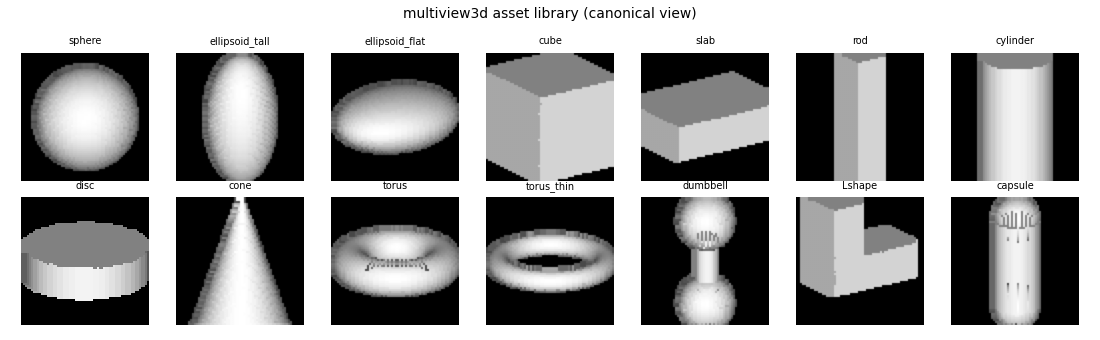
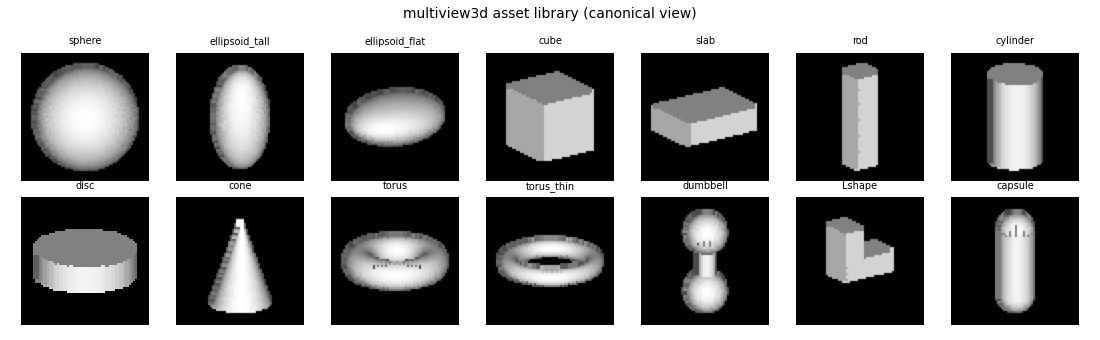
verify + fix 3D multiview: bounding-sphere normalisation (no clipping), correctness checks
run_verify_multiview.py: azimuth sweeps of asymmetric objects + numerical checks.
Confirmed correct: slab/disc silhouette HEIGHT is azimuth-invariant (rotation about y);
cube W/H 1.00 head-on <-> 1.33 oblique (3 faces); L-shape chiral (corr(0,180)=0.50);
stored poses == rotation(az,el); projected 3D points land in silhouette (containment 1.0).

Fix found in inspection: several objects clipped the frame. _normalize now scales each
object to bounding-sphere radius 1 (per-axis was insufficient: rotated diagonals project
beyond). Regenerated; max silhouette extent 54<64, clipping gone.

diff --git a/experiments/run_verify_multiview.py b/experiments/run_verify_multiview.py
@@ -1,0 +1,109 @@
+"""Verify the 3D multi-view renders are geometrically correct.
+
+Two checks:
+  (1) VISUAL: azimuth sweep (el=0) of ASYMMETRIC objects. A correct camera orbit
+      must rotate them predictably (slab gets wider/narrower; the L-shape spins;
+      the cube shows 1 face head-on, 2-3 faces obliquely). A wrong az/el/flip
+      convention shows up instantly here. -> docs/multiview3d_verify.png
+
+  (2) NUMERICAL: (a) cube head-on (0,0) is a square; (b) the stored poses in the
+      .npz equal rotation(az,el); (c) projecting the 3D points with the stored
+      pose lands inside the rendered silhouette (poses <-> images are consistent,
+      which downstream factorization relies on); (d) the orbit is smooth and has
+      the symmetry it should.
+
+Run:
+  ../market-analysis/.koopman-env/Scripts/python.exe experiments/run_verify_multiview.py
+"""
+from __future__ import annotations
+import sys
+from pathlib import Path
+
+ROOT = Path(__file__).resolve().parent.parent
+sys.path.insert(0, str(ROOT / "src"))
+
+import numpy as np
+import matplotlib
+matplotlib.use("Agg")
+import matplotlib.pyplot as plt
+
+from gestalt.render3d import library, render, rotation
+from gestalt.synth import load_dataset  # not used; kept import surface minimal
+
+AZ = [0, 45, 90, 135, 180, 225, 270, 315]
+MV = ROOT / "data" / "multiview3d"
+H, SCALE = 64, 0.40
+
+
+def silhouette(img):
+    return img > 0.01
+
+
+def project_visible(pts, nrm, R):
+    P = pts @ R.T
+    Ncz = (nrm @ R.T)[:, 2]
+    vis = Ncz > 0.02
+    u = np.clip(((P[vis, 0] * SCALE + 0.5) * H).astype(int), 0, H - 1)
+    v = np.clip(((0.5 - P[vis, 1] * SCALE) * H).astype(int), 0, H - 1)
+    return u, v
+
+
+def main():
+    lib = library()
+    diag = ["slab", "Lshape", "cube", "ellipsoid_tall", "cone", "disc"]
+
+    # (1) visual diagnostic sheet
+    fig, axes = plt.subplots(len(diag), len(AZ), figsize=(len(AZ) * 1.1, len(diag) * 1.1))
+    for r, name in enumerate(diag):
+        pts, nrm = lib[name]
+        for c, az in enumerate(AZ):
+            axes[r, c].imshow(render(pts, nrm, rotation(az, 0)), cmap="gray", vmin=0, vmax=1)
+            axes[r, c].axis("off")
+            if r == 0:
+                axes[r, c].set_title(f"az {az}", fontsize=8)
+        axes[r, 0].set_ylabel(name, fontsize=8)
+    fig.suptitle("azimuth sweep (el=0) of asymmetric objects -- must rotate predictably", fontsize=10)
+    fig.tight_layout()
+    out = ROOT / "docs" / "multiview3d_verify.png"
+    fig.savefig(out, dpi=100); plt.close(fig)
+    print(f"wrote {out.relative_to(ROOT)}\n")
+
+    # (2) numerical checks
+    print("--- numerical sanity ---")
+    # (a) cube head-on is a square (single face, aspect ~1)
+    pts, nrm = lib["cube"]
+    img = render(pts, nrm, rotation(0, 0))
+    ys, xs = np.nonzero(silhouette(img))
+    ar = (np.ptp(xs) + 1) / (np.ptp(ys) + 1)
+    print(f"cube @(0,0) aspect ratio = {ar:.3f}  (expect ~1.00 -> a square)")
+    img35 = render(pts, nrm, rotation(35, 20))
+    print(f"cube @(0,0) distinct shades = {np.unique(np.round(img[img>0.01],2)).size} "
+          f"(flat, 1 face);  @(35,20) = {np.unique(np.round(img35[img35>0.01],2)).size} (3 faces)")
+
+    # (b) stored npz poses equal rotation(az,el); (c) reprojection containment
+    print("\n--- stored-pose integrity + reprojection containment ---")
+    for d in sorted(MV.glob("obj_0*"))[:4]:
+        z = np.load(d / "views.npz")
+        name = str(z["name"]); pts, nrm = lib[name]
+        pose_ok = all(np.allclose(z["R"][k], rotation(z["az"][k], z["el"][k]))
+                      for k in range(len(z["az"])))
+        cont = []
+        for k in range(len(z["az"])):
+            u, v = project_visible(pts, nrm, z["R"][k])
+            inside = silhouette(z["imgs"][k])[v, u]
+            cont.append(inside.mean())
+        print(f"  {d.name:22s} poses==rotation(az,el): {pose_ok}   "
+              f"reproj-in-silhouette: {np.mean(cont):.3f}")
+
+    # (d) orbit symmetry/smoothness on a chiral object (Lshape)
+    pts, nrm = lib["Lshape"]
+    orbit = np.stack([render(pts, nrm, rotation(az, 0)) for az in range(0, 360, 15)])
+    nxt = np.array([np.corrcoef(orbit[i].ravel(), orbit[(i + 1) % len(orbit)].ravel())[0, 1]
+                    for i in range(len(orbit))])
+    half = np.corrcoef(orbit[0].ravel(), orbit[len(orbit)//2].ravel())[0, 1]
+    print(f"\nLshape orbit: consecutive-view corr min={nxt.min():.3f} (smooth, no jumps); "
+          f"\n  corr(0deg, 180deg)={half:.3f} (low => 180deg-distinct, i.e. genuinely chiral/asymmetric)")
+
+
+if __name__ == "__main__":
+    main()

diff --git a/src/gestalt/render3d.py b/src/gestalt/render3d.py
@@ -116,9 +116,20 @@ def capsule(r, h):
     return (np.concatenate([c[0], t[0], b[0]]), np.concatenate([c[1], t[1], b[1]]))
 
 
+def _normalize(po):
+    """Uniformly scale an object so its BOUNDING SPHERE has radius 1 (max
+    Euclidean norm = 1). Using the sphere, not the per-axis extent, guarantees
+    that NO rotation projects beyond the frame. Uniform scale leaves normals
+    unchanged."""
+    p, n = po
+    r = np.linalg.norm(p, axis=1).max()
+    return p / (r + 1e-9), n
+
+
 def library():
-    """The procedural 'asset library': name -> (points, normals)."""
-    return {
+    """The procedural 'asset library': name -> (points, normals), each
+    normalised to a common canonical scale so no view clips the frame."""
+    raw = {
         "sphere": sphere(), "ellipsoid_tall": ellipsoid(.7, 1.3, .7),
         "ellipsoid_flat": ellipsoid(1.3, .6, 1.0), "cube": box(.9, .9, .9),
         "slab": box(1.3, .35, .9), "rod": box(.32, 1.35, .32),
@@ -127,6 +138,7 @@ def library():
         "torus_thin": torus(1.05, .2), "dumbbell": dumbbell(),
         "Lshape": lshape(), "capsule": capsule(.45, .9),
     }
+    return {k: _normalize(v) for k, v in raw.items()}
 
 
 # ---------------- camera + orthographic splat renderer ----------------------